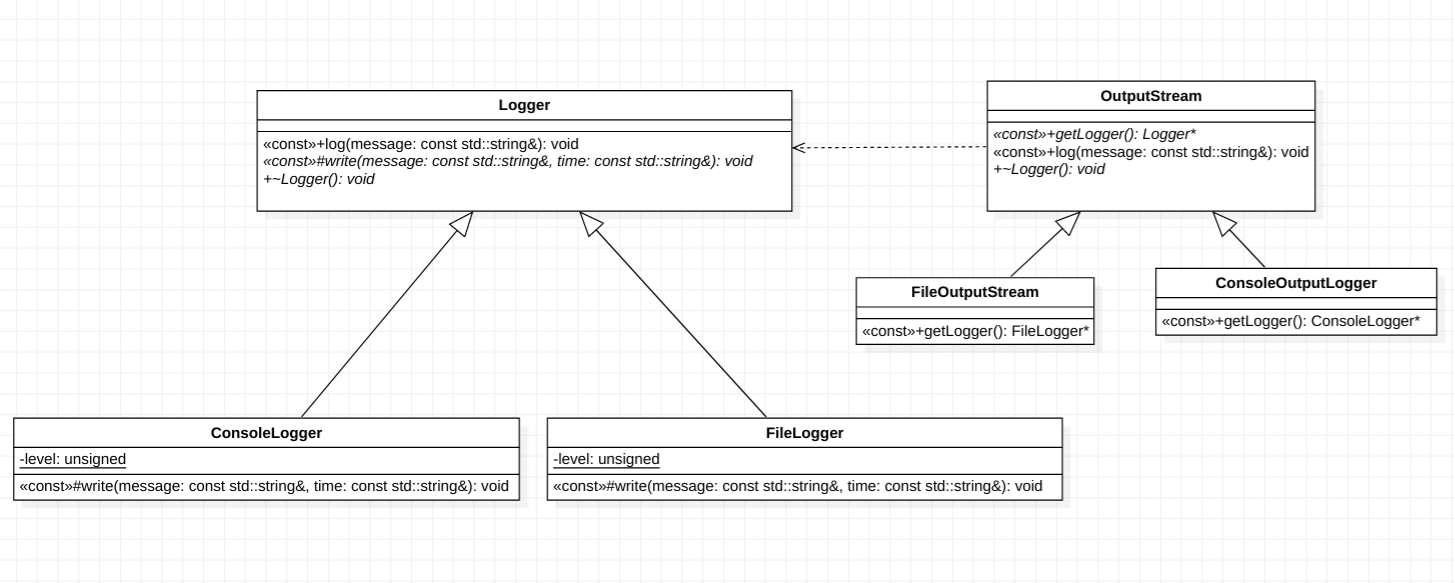
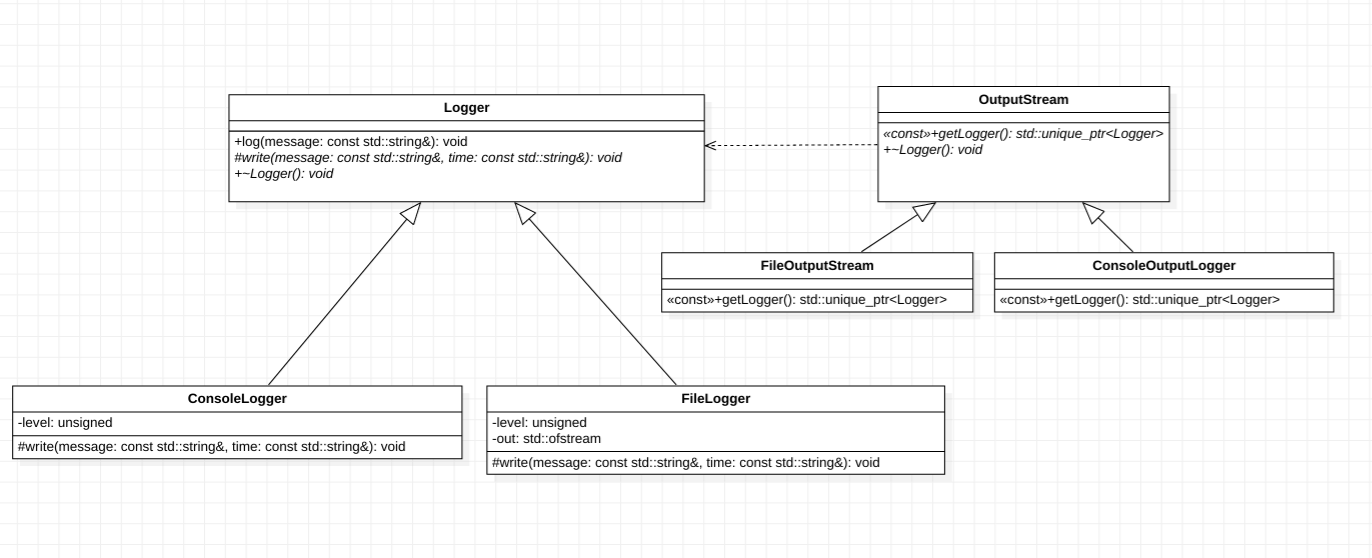
ctime changed to ctime_r; corrected mistakes with factory method

diff --git a/lecture5/main.cpp b/lecture5/main.cpp
@@ -10,88 +10,91 @@ class Logger
 {
 public:
     virtual ~Logger() {}; 
-    void log(const std::string& message) const
+    void log(const std::string& message)
     {
         auto current = std::chrono::system_clock::now();
         std::time_t current_time = std::chrono::system_clock::to_time_t(current);
-        char *time = ctime(&current_time);
-        if (time[strlen(time)-1] == '\n') time[strlen(time)-1] = '\0';
-        write(message, time);
+        char *buffer = new char[26];
+        ctime_r(&current_time, buffer);
+        if (buffer[strlen(buffer)-1] == '\n') buffer[strlen(buffer)-1] = '\0';
+        write(message, buffer);
+        delete[] buffer;
     }
 protected:
-    virtual void write(const std::string& message, const std::string& time) const = 0;
+    virtual void write(const std::string& message, const std::string& time) = 0;
 };
 
 class ConsoleLogger : public Logger 
 {
+public:
+    ConsoleLogger()
+    {
+        level = 0;
+    }
 protected:
-    void write(const std::string& message, const std::string& time) const override
+    void write(const std::string& message, const std::string& time) override
     {
         std::cout << level << ", " << time << ": [" << message << "]" << std::endl;
         ++level;
     }
 private:
-    static unsigned level;
+    unsigned level;
 };
-
-unsigned ConsoleLogger::level = 0;
 
 class FileLogger : public Logger
 {
-protected:
-    void write(const std::string& message, const std::string& time) const override
+public:
+    FileLogger()
     {
-        std::ofstream out;
+        level = 0;
         out.open("logs.txt", std::ofstream::out | std::ofstream::app);
+    }
+protected:
+    void write(const std::string& message, const std::string& time) override
+    {
         out << level << ", " << time << ": [" << message << "]" << std::endl;
         ++level;
-        out.close();
     }
 private:
-    static unsigned level;
+    unsigned level;
+    std::ofstream out;
 };
-
-unsigned FileLogger::level = 0;
 
 class OutputStream
 {
 public:
     virtual ~OutputStream() {};
-    virtual Logger* getLogger() const = 0;
-    void log(const std::string& message) const 
-    {
-        Logger* logger = this->getLogger();
-        logger->log(message);
-        delete logger;
-    }
+    virtual std::unique_ptr<Logger> getLogger() const = 0;
 };
 
 class ConsoleOutputStream : public OutputStream
 {
 public: 
-    Logger* getLogger() const override
+    std::unique_ptr<Logger> getLogger() const override
     {
-        return new ConsoleLogger();
+        return std::make_unique<ConsoleLogger>();
     }
 };
 
 class FileOutputStream : public OutputStream
 {
 public:
-    Logger* getLogger() const override
+    std::unique_ptr<Logger> getLogger() const override
     {
-        return new FileLogger();
+        return std::make_unique<FileLogger>();
     }
 };
 
 int main(int argc, char* argv[])
 {
     auto file_output = std::make_unique<FileOutputStream>();
-    file_output->log("hello");
+    auto file_logger = file_output->getLogger();
+    file_logger->log("hello");
     auto console_output = std::make_unique<ConsoleOutputStream>();
-    console_output->log("something happened 1");
-    file_output->log("world");
-    console_output->log("something happened 2");
-    console_output->log("something happened 3");
+    auto console_logger = console_output->getLogger();
+    console_logger->log("something happened 1");
+    file_logger->log("world");
+    console_logger->log("something happened 2");
+    console_logger->log("something happened 3");
     return 0;
 }
